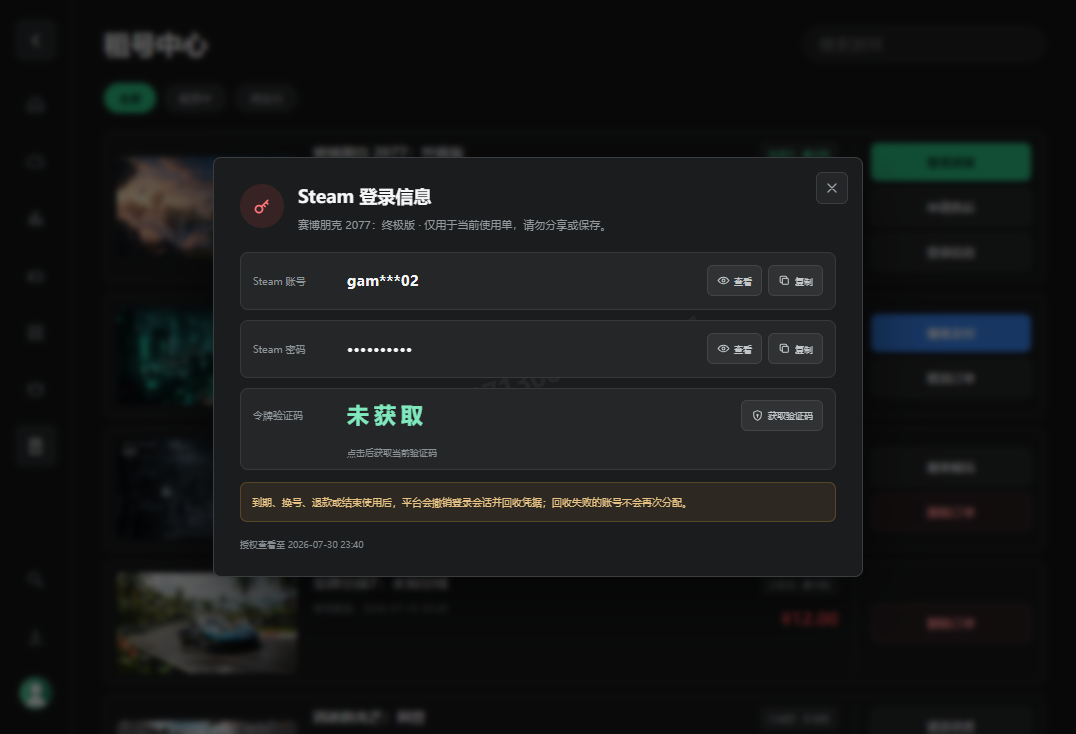
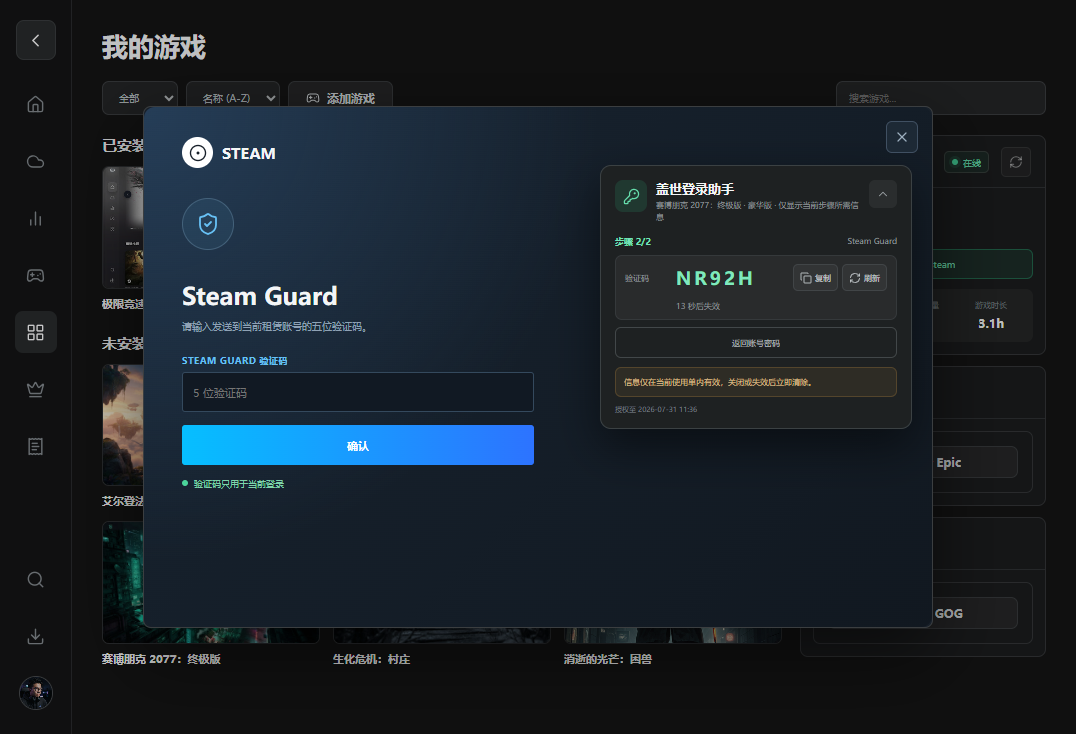
fix(rental): keep staged login helper compact

diff --git a/Mac端demo/mac端租号功能/Mac端租号功能-标注版.html b/Mac端demo/mac端租号功能/Mac端租号功能-标注版.html
@@ -118,7 +118,7 @@ body[data-badges="visible"] .demo-badge{display:block}.annotation-flash{animatio
 .checkout-price-block>.checkout-price-title{grid-column:1;grid-row:2;color:#fff;font-size:11px;display:flex;align-items:center;gap:7px}
 .checkout-price-block>.checkout-payable-price{grid-column:2;grid-row:2;justify-self:end;color:#ff565c;font-size:28px;font-weight:700;line-height:1}
 .member-entry{width:100%;min-height:58px;margin:4px 0 12px;padding:10px 12px;border:1px solid rgba(44,195,133,.45);border-radius:8px;background:linear-gradient(135deg,rgba(44,195,133,.14),rgba(44,195,133,.04));color:#fff;display:grid;grid-template-columns:28px 1fr auto;gap:9px;align-items:center;text-align:left}.member-entry:hover{border-color:#2cc385;background:rgba(44,195,133,.16)}.member-entry-icon{width:28px;height:28px;border-radius:7px;background:#2cc385;color:#082b20;display:grid;place-items:center}.member-entry b{display:block;font-size:11px}.member-entry small{display:block;margin-top:4px;color:#95a39d;font-size:9px}.member-entry-action{display:flex;align-items:center;gap:3px;color:#80e8bd;font-size:10px;white-space:nowrap}
-.login-method-dialog{width:min(620px,calc(100% - 36px))}.login-method-grid{display:grid;grid-template-columns:1fr 1fr;gap:12px;margin-top:20px}.login-method-card{min-height:148px;padding:18px;border:1px solid #3b3e40;border-radius:10px;background:#252627;color:#f4f6f7;text-align:left;display:flex;flex-direction:column;align-items:flex-start}.login-method-card:hover{border-color:#5c6468;background:#2b2d2e}.login-method-card.primary{border-color:rgba(44,195,133,.6);background:linear-gradient(145deg,rgba(44,195,133,.16),#252627)}.login-method-card-icon{width:40px;height:40px;border-radius:10px;background:#343738;color:#b9c0c4;display:grid;place-items:center;margin-bottom:15px}.login-method-card.primary .login-method-card-icon{background:#2cc385;color:#082b20}.login-method-card b{font-size:14px}.login-method-card span{margin-top:7px;color:#92999d;font-size:10px;line-height:1.55}.login-method-safe{display:flex;align-items:center;gap:7px;margin-top:14px;color:#82dcb8;font-size:9px}.confirm-layer:has(.manual-login-dialog){background:rgba(0,0,0,.22);backdrop-filter:none}.manual-login-dialog{position:relative;width:min(790px,calc(100% - 28px));min-height:520px;padding:0;overflow:hidden;background:#18202a}.manual-login-dialog>.order-confirm-close{z-index:8;top:14px;right:14px;border-color:#405062;background:#1d2935;color:#9eb0c0}.steam-login-workspace{position:relative;min-height:520px}.steam-native-login{min-height:520px;padding:30px 38px;border:0;border-radius:11px;background:radial-gradient(circle at 0 0,rgba(42,71,102,.72),transparent 48%),linear-gradient(135deg,#182431,#111820);overflow:hidden}.steam-native-content{width:352px}.steam-native-brand{display:flex;align-items:center;gap:9px;font-size:15px;font-weight:750}.steam-native-brand span{width:31px;height:31px;border-radius:50%;background:#fff;color:#18202a;display:grid;place-items:center}.steam-native-login h3{margin-top:30px;font-size:24px}.steam-native-subtitle{margin:7px 0 20px;color:#8fa2b5;font-size:10px;line-height:1.6}.steam-native-field{display:grid;gap:6px;margin-top:12px}.steam-native-field label{color:#67c1f5;font-size:9px;font-weight:700;letter-spacing:.5px}.steam-native-field input{width:100%;height:40px;padding:0 10px;border:1px solid #34495d;border-radius:3px;background:#111923;color:#fff;font-size:11px;outline:0}.steam-native-field input:focus{border-color:#67c1f5}.steam-native-check{display:flex;align-items:center;gap:7px;margin:12px 0;color:#a7b6c4;font-size:9px}.steam-native-submit{width:100%;height:40px;margin-top:13px;border:0;border-radius:3px;background:linear-gradient(90deg,#06bfff,#2d73ff);color:#fff;font-size:11px;font-weight:700}.steam-window-state{display:flex;align-items:center;gap:6px;margin-top:12px;color:#7fd4aa;font-size:9px}.steam-window-state:before{content:"";width:6px;height:6px;border-radius:50%;background:#4bd39a}.steam-guard-symbol{width:52px;height:52px;margin-top:30px;border:1px solid #43617a;border-radius:50%;background:rgba(103,193,245,.08);color:#67c1f5;display:grid;place-items:center}.steam-pending-card{margin-top:24px;padding:16px;border:1px solid #34495d;border-radius:6px;background:#111923;color:#b7c5d1;font-size:10px;line-height:1.7}.gamehub-login-assistant{position:absolute;z-index:5;right:20px;top:58px;width:312px;padding:14px;border:1px solid #3b4143;border-radius:11px;background:rgba(31,33,34,.98);box-shadow:0 18px 44px rgba(0,0,0,.48);overflow:hidden}.gamehub-login-assistant[data-collapsed="true"]{width:176px;padding:0;border-color:#485052}.assistant-collapsed{width:100%;height:42px;padding:0 12px;border:0;background:#252829;color:#e6e9e8;display:flex;align-items:center;gap:8px;font-size:10px}.assistant-collapsed b{margin-right:auto}.assistant-collapsed span{color:#75dfb3}.assistant-head{display:grid;grid-template-columns:32px minmax(0,1fr) 28px;align-items:start;gap:9px;margin-bottom:12px}.assistant-head-icon{width:32px;height:32px;border-radius:8px;background:rgba(44,195,133,.14);color:#66dfad;display:grid;place-items:center}.assistant-head h3{font-size:13px}.assistant-head p{margin-top:3px;color:#8f969a;font-size:8px;line-height:1.45}.assistant-collapse{width:28px;height:28px;border:0;border-radius:6px;background:#2a2d2e;color:#9da4a7;display:grid;place-items:center}.assistant-step{display:flex;align-items:center;justify-content:space-between;margin-bottom:8px;color:#8e9699;font-size:8px}.assistant-step b{color:#74e3b7;font-size:9px}.credential-panel{display:grid;gap:7px}.credential-row{display:grid;grid-template-columns:62px minmax(0,1fr) auto;align-items:center;gap:7px;min-height:49px;padding:8px 9px;border:1px solid #35393b;border-radius:7px;background:#292b2c}.credential-row>span:first-child{color:#8f969a;font-size:8px}.credential-value{min-width:0;font:650 11px/1.3 var(--font);letter-spacing:.3px;overflow:hidden;text-overflow:ellipsis;white-space:nowrap}.credential-value.guard{font:750 21px/1 var(--font);letter-spacing:5px;color:#80e8bd}.credential-actions{display:flex;gap:4px}.credential-icon-btn{height:27px;padding:0 6px;border:1px solid #414547;border-radius:5px;background:#323435;color:#c2c7ca;font-size:8px;display:flex;align-items:center;gap:3px}.credential-icon-btn:hover{border-color:#2cc385;color:#74e3b7}.credential-icon-btn:disabled{cursor:not-allowed;opacity:.45}.credential-countdown{display:block;margin-top:3px;color:#8b9296;font-size:8px;letter-spacing:0}.assistant-primary-action{width:100%;height:34px;margin-top:10px;border:0;border-radius:6px;background:#2cc385;color:#09271d;font-size:9px;font-weight:700}.assistant-secondary-action{width:100%;height:31px;margin-top:7px;border:1px solid #424749;border-radius:6px;background:transparent;color:#aeb5b8;font-size:8px}.credential-note{margin-top:9px;padding:8px;border-radius:6px;background:rgba(255,184,77,.07);border:1px solid rgba(255,184,77,.18);color:#d7bc88;font-size:8px;line-height:1.5}.credential-footer{display:flex;align-items:center;margin-top:8px}.credential-footer-copy{color:#777f82;font-size:7px}.capability-tags{display:flex;flex-wrap:wrap;gap:4px}.capability-tag{display:inline-flex;padding:2px 5px;border-radius:4px;background:#eef8f3;color:#13875c;font-size:8px}.capability-tag.failed{background:#fff0f0;color:#c63e3e}.recovery-chip{display:inline-flex;padding:3px 6px;border-radius:4px;background:#eef8f3;color:#13875c;font-size:9px}.recovery-chip.failed{background:#fff0f0;color:#c63e3e}
+.login-method-dialog{width:min(620px,calc(100% - 36px))}.login-method-grid{display:grid;grid-template-columns:1fr 1fr;gap:12px;margin-top:20px}.login-method-card{min-height:148px;padding:18px;border:1px solid #3b3e40;border-radius:10px;background:#252627;color:#f4f6f7;text-align:left;display:flex;flex-direction:column;align-items:flex-start}.login-method-card:hover{border-color:#5c6468;background:#2b2d2e}.login-method-card.primary{border-color:rgba(44,195,133,.6);background:linear-gradient(145deg,rgba(44,195,133,.16),#252627)}.login-method-card-icon{width:40px;height:40px;border-radius:10px;background:#343738;color:#b9c0c4;display:grid;place-items:center;margin-bottom:15px}.login-method-card.primary .login-method-card-icon{background:#2cc385;color:#082b20}.login-method-card b{font-size:14px}.login-method-card span{margin-top:7px;color:#92999d;font-size:10px;line-height:1.55}.login-method-safe{display:flex;align-items:center;gap:7px;margin-top:14px;color:#82dcb8;font-size:9px}.confirm-layer:has(.manual-login-dialog){background:rgba(0,0,0,.22);backdrop-filter:none}.manual-login-dialog{position:relative;width:min(790px,calc(100% - 28px));min-height:520px;padding:0;overflow:hidden;background:#18202a}.manual-login-dialog>.order-confirm-close{z-index:8;top:14px;right:14px;border-color:#405062;background:#1d2935;color:#9eb0c0}.steam-login-workspace{position:relative;min-height:520px}.steam-native-login{min-height:520px;padding:30px 38px;border:0;border-radius:11px;background:radial-gradient(circle at 0 0,rgba(42,71,102,.72),transparent 48%),linear-gradient(135deg,#182431,#111820);overflow:hidden}.steam-native-content{width:352px}.steam-native-brand{display:flex;align-items:center;gap:9px;font-size:15px;font-weight:750}.steam-native-brand span{width:31px;height:31px;border-radius:50%;background:#fff;color:#18202a;display:grid;place-items:center}.steam-native-login h3{margin-top:30px;font-size:24px}.steam-native-subtitle{margin:7px 0 20px;color:#8fa2b5;font-size:10px;line-height:1.6}.steam-native-field{display:grid;gap:6px;margin-top:12px}.steam-native-field label{color:#67c1f5;font-size:9px;font-weight:700;letter-spacing:.5px}.steam-native-field input{width:100%;height:40px;padding:0 10px;border:1px solid #34495d;border-radius:3px;background:#111923;color:#fff;font-size:11px;outline:0}.steam-native-field input:focus{border-color:#67c1f5}.steam-native-check{display:flex;align-items:center;gap:7px;margin:12px 0;color:#a7b6c4;font-size:9px}.steam-native-submit{width:100%;height:40px;margin-top:13px;border:0;border-radius:3px;background:linear-gradient(90deg,#06bfff,#2d73ff);color:#fff;font-size:11px;font-weight:700}.steam-window-state{display:flex;align-items:center;gap:6px;margin-top:12px;color:#7fd4aa;font-size:9px}.steam-window-state:before{content:"";width:6px;height:6px;border-radius:50%;background:#4bd39a}.steam-guard-symbol{width:52px;height:52px;margin-top:30px;border:1px solid #43617a;border-radius:50%;background:rgba(103,193,245,.08);color:#67c1f5;display:grid;place-items:center}.steam-pending-card{margin-top:24px;padding:16px;border:1px solid #34495d;border-radius:6px;background:#111923;color:#b7c5d1;font-size:10px;line-height:1.7}.gamehub-login-assistant{position:absolute;z-index:5;right:20px;top:58px;width:312px;padding:14px;border:1px solid #3b4143;border-radius:11px;background:rgba(31,33,34,.98);box-shadow:0 18px 44px rgba(0,0,0,.48);overflow:hidden}.gamehub-login-assistant[data-collapsed="true"]{width:176px;padding:0;border-color:#485052}.assistant-collapsed{width:100%;height:42px;padding:0 12px;border:0;background:#252829;color:#e6e9e8;display:flex;align-items:center;gap:8px;font-size:10px}.assistant-collapsed b{margin-right:auto}.assistant-collapsed span{color:#75dfb3}.assistant-head{display:grid;grid-template-columns:32px minmax(0,1fr) 28px;align-items:start;gap:9px;margin-bottom:12px}.assistant-head-icon{width:32px;height:32px;border-radius:8px;background:rgba(44,195,133,.14);color:#66dfad;display:grid;place-items:center}.assistant-head h3{font-size:13px}.assistant-head p{margin-top:3px;color:#8f969a;font-size:8px;line-height:1.45}.assistant-collapse{width:28px;height:28px;border:0;border-radius:6px;background:#2a2d2e;color:#9da4a7;display:grid;place-items:center}.assistant-step{display:flex;align-items:center;justify-content:space-between;margin-bottom:8px;color:#8e9699;font-size:8px}.assistant-step b{color:#74e3b7;font-size:9px}.credential-panel{display:grid;gap:7px}.credential-row{display:grid;grid-template-columns:62px minmax(0,1fr) auto;align-items:center;gap:7px;min-height:49px;padding:8px 9px;border:1px solid #35393b;border-radius:7px;background:#292b2c}.credential-row:has(.credential-value.guard){grid-template-columns:44px minmax(82px,1fr) auto}.credential-row>span:first-child{color:#8f969a;font-size:8px}.credential-value{min-width:0;font:650 11px/1.3 var(--font);letter-spacing:.3px;overflow:hidden;text-overflow:ellipsis;white-space:nowrap}.credential-value.guard{font:750 18px/1 var(--font);letter-spacing:3px;color:#80e8bd}.credential-actions{display:flex;gap:4px}.credential-icon-btn{height:27px;padding:0 6px;border:1px solid #414547;border-radius:5px;background:#323435;color:#c2c7ca;font-size:8px;display:flex;align-items:center;gap:3px}.credential-icon-btn:hover{border-color:#2cc385;color:#74e3b7}.credential-icon-btn:disabled{cursor:not-allowed;opacity:.45}.credential-countdown{display:block;margin-top:3px;color:#8b9296;font-size:8px;letter-spacing:0}.assistant-primary-action{width:100%;height:34px;margin-top:10px;border:0;border-radius:6px;background:#2cc385;color:#09271d;font-size:9px;font-weight:700}.assistant-secondary-action{width:100%;height:31px;margin-top:7px;border:1px solid #424749;border-radius:6px;background:transparent;color:#aeb5b8;font-size:8px}.credential-note{margin-top:9px;padding:8px;border-radius:6px;background:rgba(255,184,77,.07);border:1px solid rgba(255,184,77,.18);color:#d7bc88;font-size:8px;line-height:1.5}.credential-footer{display:flex;align-items:center;margin-top:8px}.credential-footer-copy{color:#777f82;font-size:7px}.capability-tags{display:flex;flex-wrap:wrap;gap:4px}.capability-tag{display:inline-flex;padding:2px 5px;border-radius:4px;background:#eef8f3;color:#13875c;font-size:8px}.capability-tag.failed{background:#fff0f0;color:#c63e3e}.recovery-chip{display:inline-flex;padding:3px 6px;border-radius:4px;background:#eef8f3;color:#13875c;font-size:9px}.recovery-chip.failed{background:#fff0f0;color:#c63e3e}
 .credential-countdown{grid-column:2/4}.order-card .order-actions [data-action="open-login-methods"]{order:-1}
 </style>
 </head>
